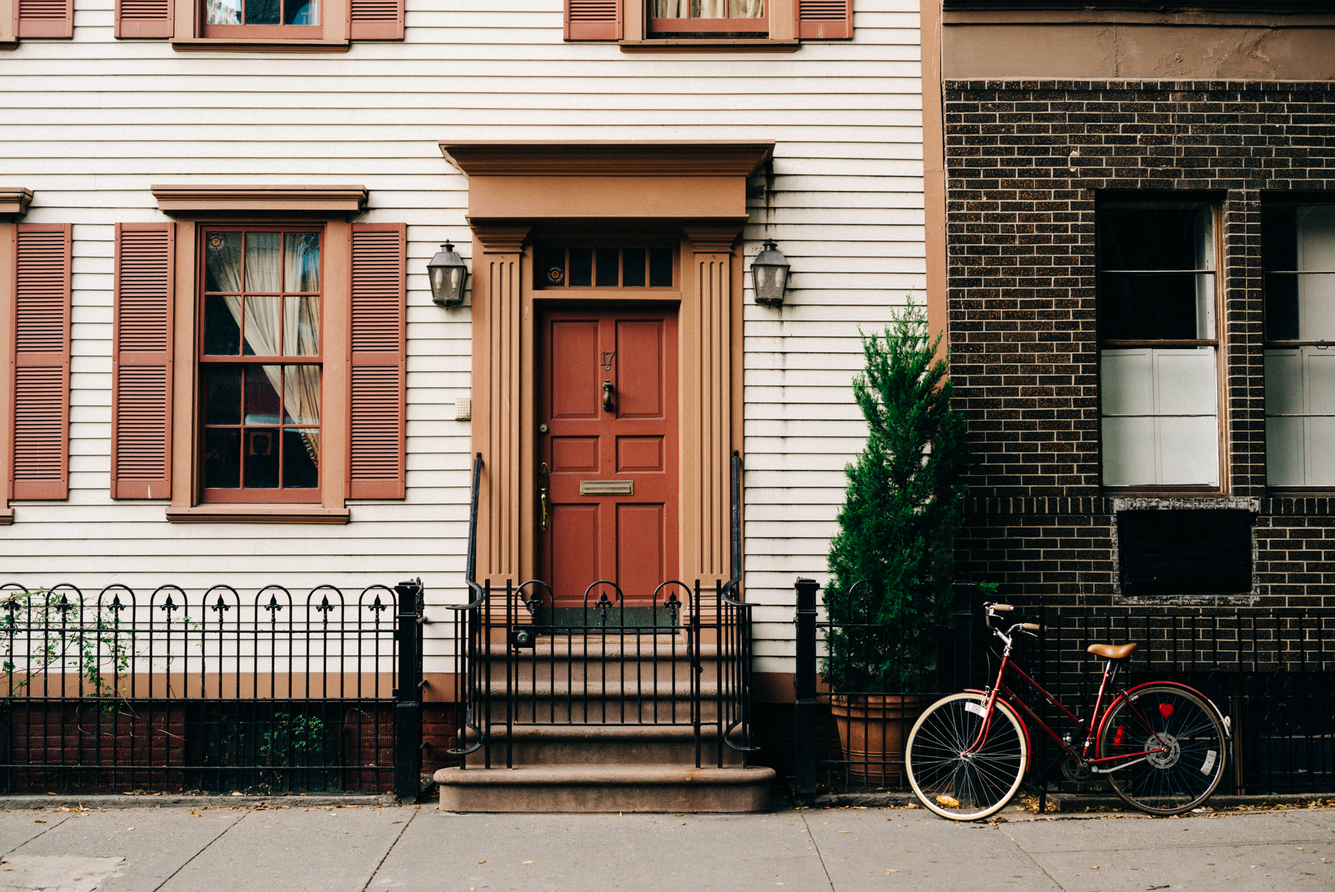
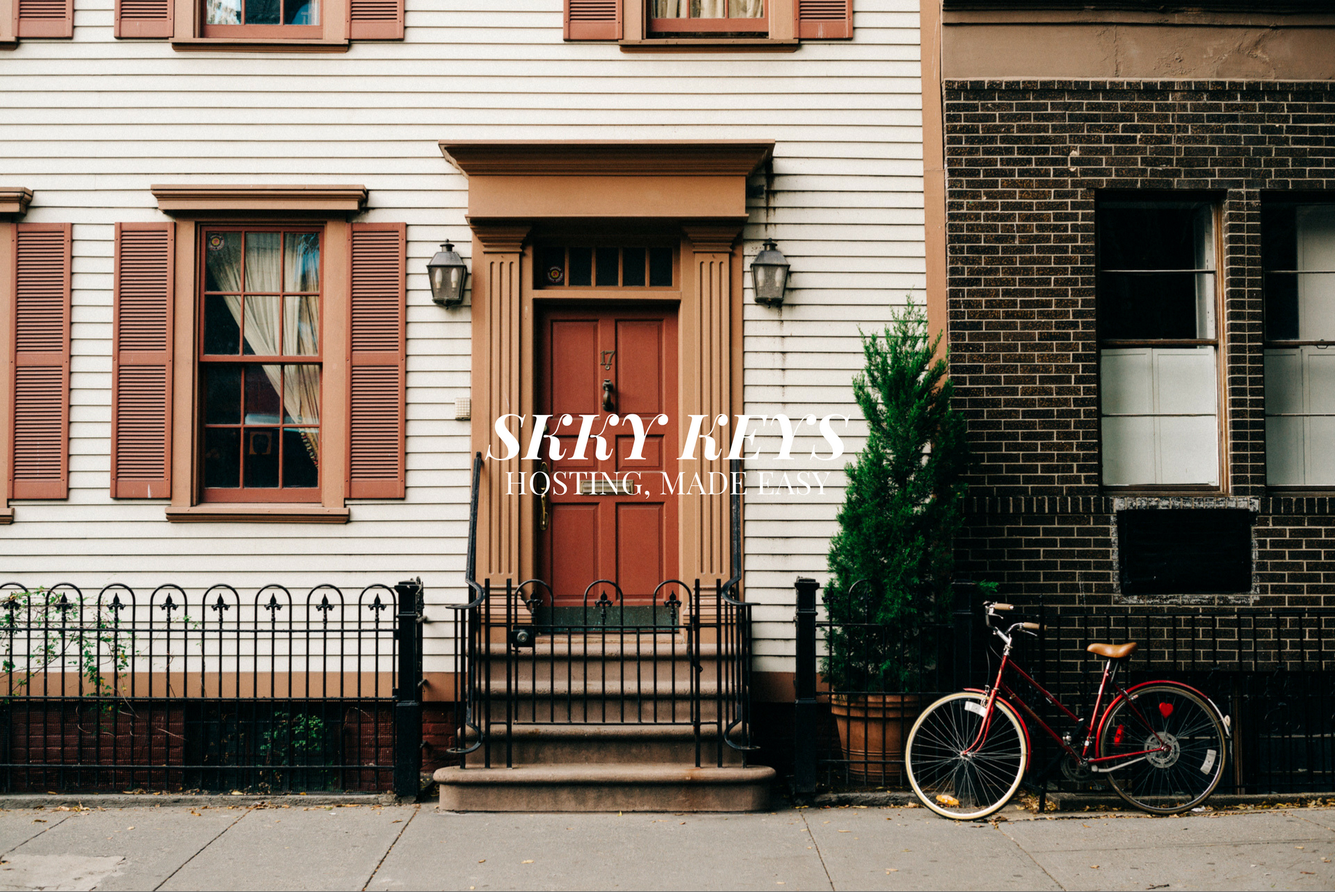
changed heading font and home cover

diff --git a/css/main.css b/css/main.css
@@ -24,17 +24,12 @@
   object-position: center;
 }
 
-.cover-home{
-
-}
-
-.title-area{
-  /* z-index: 1; */
-}
-
-.title{
-  /* z-index: 1; */
-}
+/* .text-block{
+  position: absolute;
+  top: 50%;
+  left: 50%;
+  transform: translate(-50%, -50%);
+} */
 
 .container{
   text-align: center;
@@ -140,6 +135,11 @@ textarea::-webkit-input-placeholder {
 
 h1, h2, h3{
   font-weight: normal;
+}
+
+h2{
+  font-family: 'Lobster', cursive;
+  font-size: 38px;
 }
 
 .contact a{

diff --git a/pricing.html b/pricing.html
@@ -12,8 +12,7 @@
 
   <link href="http://maxcdn.bootstrapcdn.com/font-awesome/latest/css/font-awesome.min.css" rel="stylesheet">
   <link href="https://use.fontawesome.com/releases/v5.0.8/css/all.css" rel="stylesheet">
-
-
+  <link href="https://fonts.googleapis.com/css?family=Lobster" rel="stylesheet">
 
 </head>
 <body>

diff --git a/contact.html b/contact.html
@@ -12,6 +12,7 @@
 
   <link href="http://maxcdn.bootstrapcdn.com/font-awesome/latest/css/font-awesome.min.css" rel="stylesheet">
   <link href="https://use.fontawesome.com/releases/v5.0.8/css/all.css" rel="stylesheet">
+  <link href="https://fonts.googleapis.com/css?family=Lobster" rel="stylesheet">
 
 
 

diff --git a/how.html b/how.html
@@ -12,6 +12,7 @@
 
   <link href="http://maxcdn.bootstrapcdn.com/font-awesome/latest/css/font-awesome.min.css" rel="stylesheet">
   <link href="https://use.fontawesome.com/releases/v5.0.8/css/all.css" rel="stylesheet">
+  <link href="https://fonts.googleapis.com/css?family=Lobster" rel="stylesheet">
 
 
 

diff --git a/index.html b/index.html
@@ -12,6 +12,7 @@
 
   <link href="http://maxcdn.bootstrapcdn.com/font-awesome/latest/css/font-awesome.min.css" rel="stylesheet">
   <link href="https://use.fontawesome.com/releases/v5.0.8/css/all.css" rel="stylesheet">
+  <link href="https://fonts.googleapis.com/css?family=Lobster" rel="stylesheet">
 
 
 

diff --git a/join.html b/join.html
@@ -12,6 +12,7 @@
 
   <link href="http://maxcdn.bootstrapcdn.com/font-awesome/latest/css/font-awesome.min.css" rel="stylesheet">
   <link href="https://use.fontawesome.com/releases/v5.0.8/css/all.css" rel="stylesheet">
+  <link href="https://fonts.googleapis.com/css?family=Lobster" rel="stylesheet">
 
 
 
